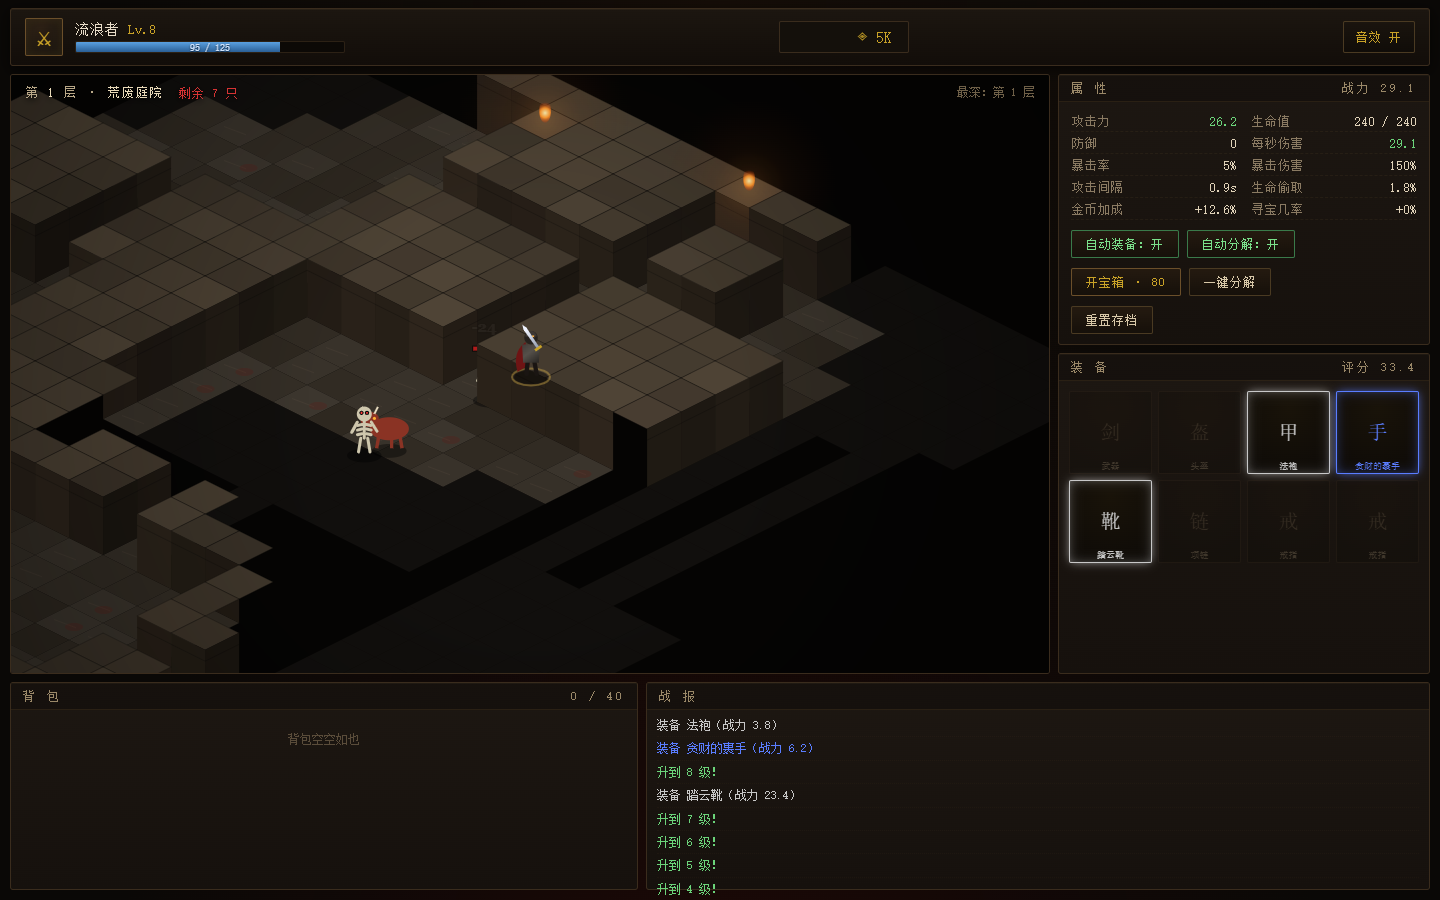
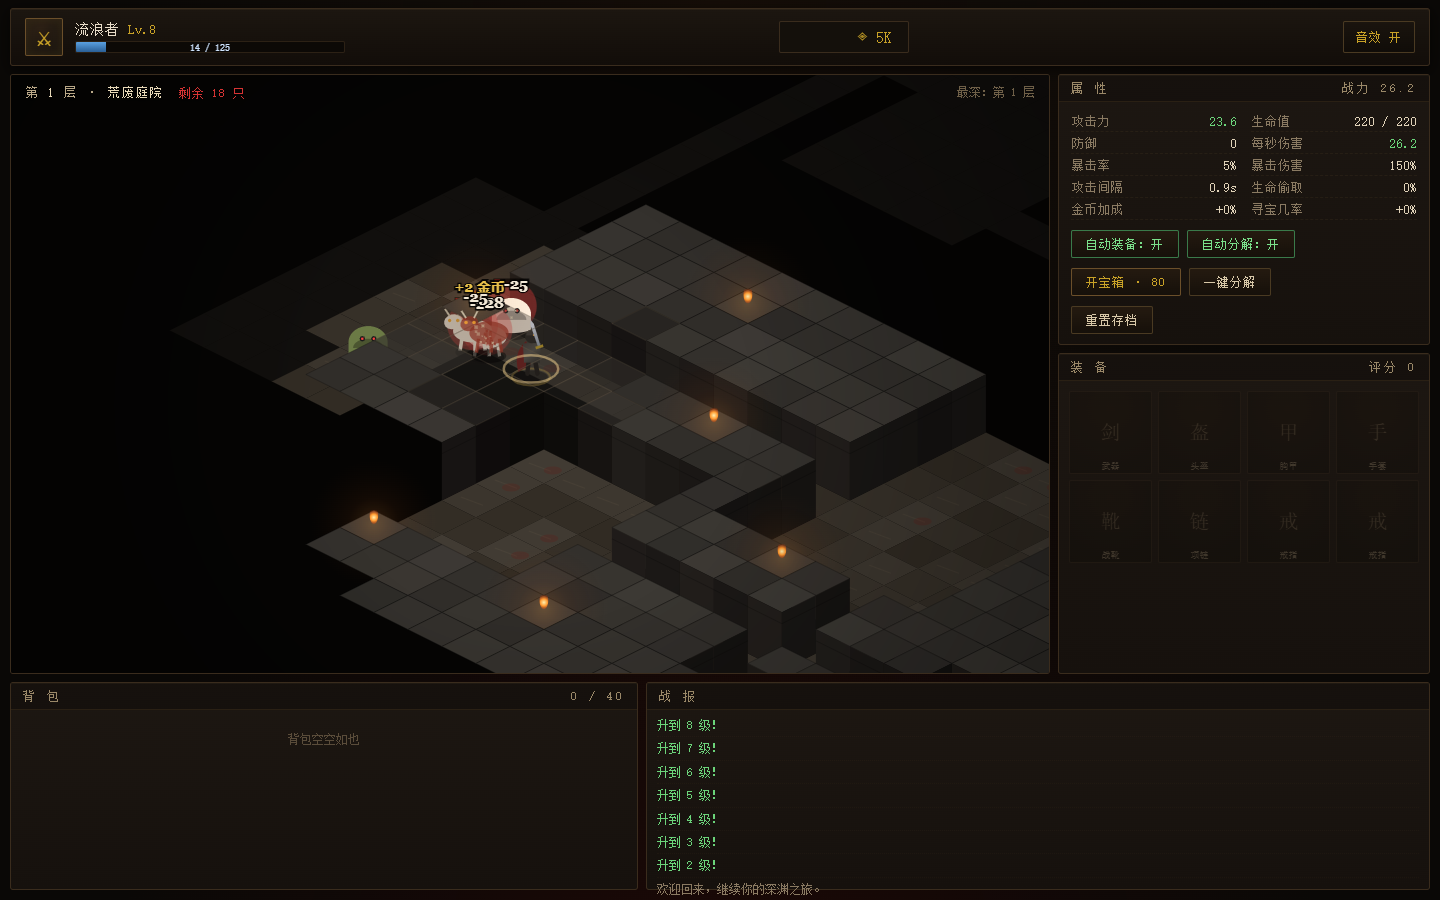
fix: 遮挡角色的墙面自动虚化 + 玩家回到深度排序
- 玩家不再强制画在最上层，改回按 (x+y) 深度排序
- 只有位于角色前方且屏幕距离近的墙才半透明，其余墙保持实体
- 虚化墙保留轮廓线，避免墙体消失的错觉
- 墙高 58→42，配色偏冷灰与暖色地板区分

diff --git a/js/ui.js b/js/ui.js
@@ -88,7 +88,7 @@
     addFloat(gx, gy, text, color, size, dy) {
       const p = this.worldToScreen(gx, gy);
       this.floats.push({
-        x: p.x + (Math.random() * 20 - 10),
+        x: p.x + (Math.random() * 36 - 18),
         y: p.y - (dy || 30) + (Math.random() * 8 - 4),
         text, color, size: size || 15, vy: -52, life: 1,
       });
@@ -265,7 +265,7 @@
 
       const g = ctx.createRadialGradient(W / 2, H * 0.55, Math.min(W, H) * 0.35, W / 2, H * 0.55, Math.max(W, H) * 0.8);
       g.addColorStop(0, 'rgba(0,0,0,0)');
-      g.addColorStop(1, 'rgba(0,0,0,0.5)');
+      g.addColorStop(1, 'rgba(0,0,0,0.42)');
       ctx.fillStyle = g;
       ctx.fillRect(0, 0, W, H);
     },
@@ -309,7 +309,7 @@
             grad.addColorStop(1, '#3a2f18');
             ctx.fillStyle = grad;
           } else {
-            const v = 34 + h * 16;
+            const v = 38 + h * 17;
             ctx.fillStyle = 'rgb(' + Math.round(v + 10) + ',' + Math.round(v + 4) + ',' + Math.round(v - 4) + ')';
           }
           ctx.fill();
@@ -350,6 +350,8 @@
 
     drawWallsAndUnits(ctx, map, run) {
       const W = this.W, H = this.H;
+      const ppx = this.worldToScreen(run.pos.x, run.pos.y);
+      const pdepth = Math.floor(run.pos.x + run.pos.y);
       const maxD = map.w + map.h;
       const buckets = new Array(maxD + 2);
       const push = function (d, item) {
@@ -365,7 +367,15 @@
           const east = (x + 1 < map.w) ? map.tiles[y * map.w + (x + 1)] : 0;
           const p = this.worldToScreen(x, y);
           if (p.x < -TW * 2 || p.x > W + TW * 2 || p.y < -WALL_H - TH * 2 || p.y > H + TW) continue;
-          push(x + y, { kind: 'wall', px: p.x, py: p.y, south, east, h: hash2(x, y) });
+          // 只有"挡在角色前方"的墙才虚化：既保证能看见角色/怪物，又保留墙的体积感
+          const sdx = p.x - ppx.x;
+          const sdy = p.y - ppx.y;
+          const sdist = Math.sqrt(sdx * sdx + sdy * sdy);
+          const inFront = (x + y) > pdepth;
+          let alpha = 1;
+          if (inFront && sdist < TW * 1.35) alpha = 0.34;
+          else if (inFront && sdist < TW * 1.95) alpha = 0.66;
+          push(x + y, { kind: 'wall', px: p.x, py: p.y, south, east, h: hash2(x, y), alpha });
         }
       }
 
@@ -384,8 +394,7 @@
         push(Math.floor(m.x + m.y), { kind: 'monster', m, px: p.x, py: p.y });
       }
 
-      const pp = this.worldToScreen(run.pos.x, run.pos.y);
-      this._playerScreen = pp;
+      push(pdepth, { kind: 'player', px: ppx.x, py: ppx.y });
 
       for (let d = 0; d < buckets.length; d++) {
         const b = buckets[d];
@@ -394,11 +403,9 @@
           const it = b[i];
           if (it.kind === 'wall') this.drawWall(ctx, it);
           else if (it.kind === 'monster') this.drawMonsterAt(ctx, it.m, it.px, it.py);
+          else this.drawPlayerAt(ctx, it.px, it.py);
         }
       }
-
-      // 玩家永远最后画，保证在任何情况下都可见
-      if (this._playerScreen) this.drawPlayerAt(ctx, this._playerScreen.x, this._playerScreen.y);
 
       for (let i = 0; i < this.dying.length; i++) {
         const d = this.dying[i];
@@ -413,7 +420,9 @@
     drawWall(ctx, it) {
       const px = it.px, py = it.py, h = it.h;
       const topY = py - WALL_H;
-      const g = 58 + h * 22;
+      const g = 46 + h * 16;
+      ctx.save();
+      ctx.globalAlpha = it.alpha === undefined ? 1 : it.alpha;
 
       ctx.beginPath();
       ctx.moveTo(px, topY - TH / 2);
@@ -421,7 +430,7 @@
       ctx.lineTo(px, topY + TH / 2);
       ctx.lineTo(px - TW / 2, topY);
       ctx.closePath();
-      ctx.fillStyle = 'rgb(' + Math.round(g) + ',' + Math.round(g * 0.86) + ',' + Math.round(g * 0.68) + ')';
+      ctx.fillStyle = 'rgb(' + Math.round(g) + ',' + Math.round(g * 0.94) + ',' + Math.round(g * 0.86) + ')';
       ctx.fill();
       ctx.strokeStyle = 'rgba(0,0,0,0.25)';
       ctx.lineWidth = 1;
@@ -435,7 +444,7 @@
         ctx.lineTo(px, py + TH / 2);
         ctx.lineTo(px - TW / 2, py);
         ctx.closePath();
-        ctx.fillStyle = 'rgb(' + Math.round(g * 0.58) + ',' + Math.round(g * 0.47) + ',' + Math.round(g * 0.35) + ')';
+        ctx.fillStyle = 'rgb(' + Math.round(g * 0.56) + ',' + Math.round(g * 0.5) + ',' + Math.round(g * 0.45) + ')';
         ctx.fill();
         ctx.strokeStyle = 'rgba(0,0,0,0.22)';
         ctx.lineWidth = 1;
@@ -453,7 +462,7 @@
         ctx.lineTo(px + TW / 2, py);
         ctx.lineTo(px, py + TH / 2);
         ctx.closePath();
-        ctx.fillStyle = 'rgb(' + Math.round(g * 0.44) + ',' + Math.round(g * 0.36) + ',' + Math.round(g * 0.27) + ')';
+        ctx.fillStyle = 'rgb(' + Math.round(g * 0.4) + ',' + Math.round(g * 0.36) + ',' + Math.round(g * 0.33) + ')';
         ctx.fill();
         ctx.strokeStyle = 'rgba(0,0,0,0.22)';
         ctx.lineWidth = 1;
@@ -463,7 +472,24 @@
         ctx.stroke();
       }
 
-      if (h > 0.965) this.drawTorch(ctx, px, topY - 4, h);
+      if (h > 0.965 && it.alpha > 0.6) this.drawTorch(ctx, px, topY - 4, h);
+      ctx.restore();
+
+      // 虚化墙保留一圈轮廓，避免"墙消失"的错觉
+      if (it.alpha < 0.99) {
+        ctx.save();
+        ctx.globalAlpha = 0.5;
+        ctx.strokeStyle = 'rgba(120, 104, 84, 0.5)';
+        ctx.lineWidth = 1;
+        ctx.beginPath();
+        ctx.moveTo(px, topY - TH / 2);
+        ctx.lineTo(px + TW / 2, topY);
+        ctx.lineTo(px, topY + TH / 2);
+        ctx.lineTo(px - TW / 2, topY);
+        ctx.closePath();
+        ctx.stroke();
+        ctx.restore();
+      }
     },
 
     drawTorch(ctx, x, y, seed) {
